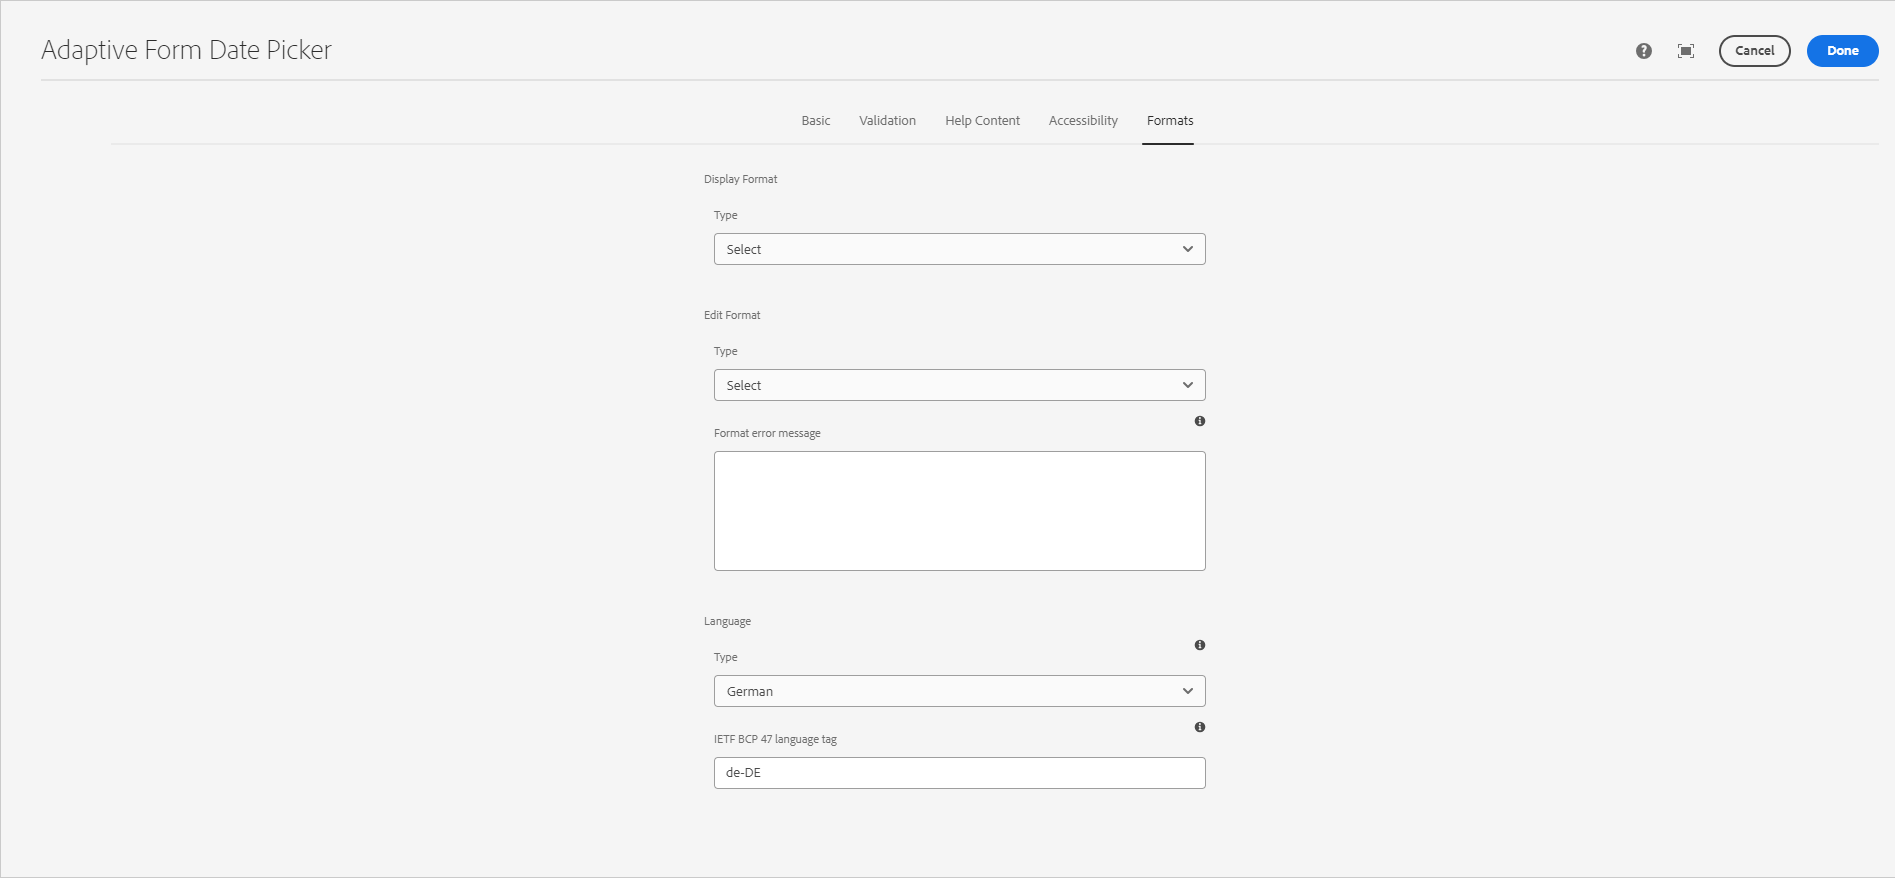
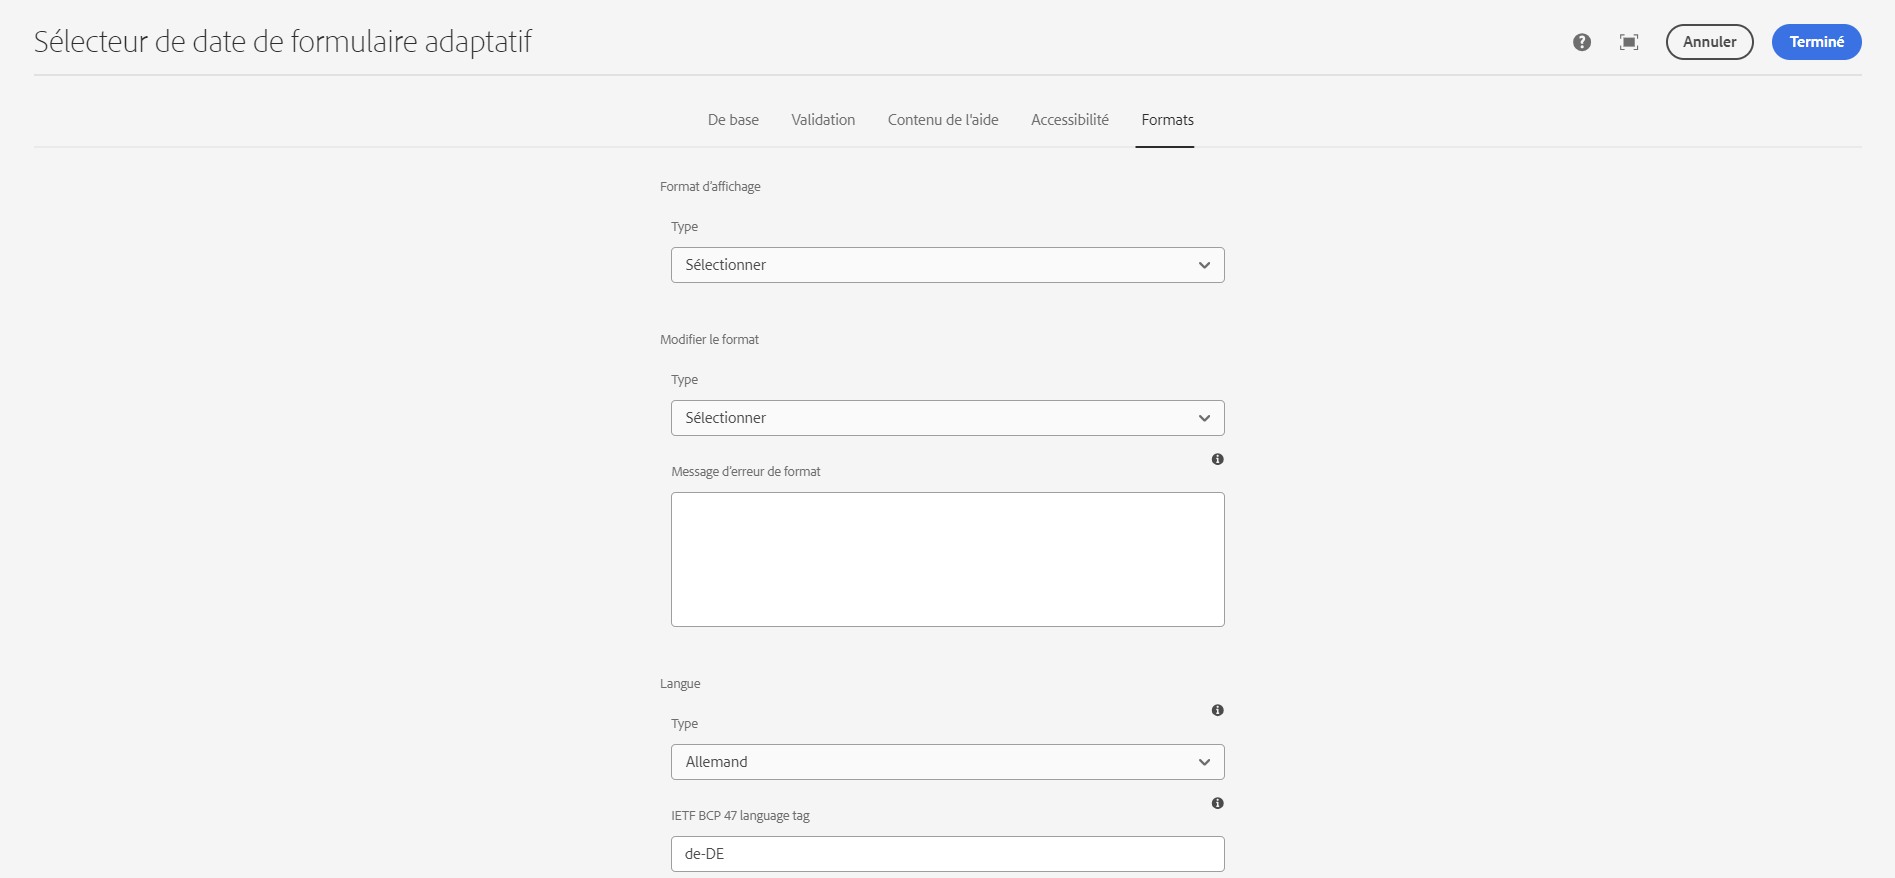
Updated by task 'AUTO_HANDOFF_1717677493608'  Changes for core/source commit https://git.corp.adobe.com/AdobeDocs/experience-manager-core-components.en/commit/b6ceef13539e7d2b3322df5a0b6369d114ae15b9

diff --git a/help/adaptive-forms/components/numeric-box.md b/help/adaptive-forms/components/numeric-box.md
@@ -4,15 +4,15 @@ description: Utilisation ou personnalisation du composant principal « Entrée 
 role: Architect, Developer, Admin, User
 exl-id: 75604ecf-1ec5-4e97-b934-d6ed49726147
 source-git-commit: b4a66a407e92398a98441c65ab588b9720777dfa
-workflow-type: tm+mt
+workflow-type: ht
 source-wordcount: '2283'
-ht-degree: 93%
+ht-degree: 100%
 
 ---
 
 # Composant Zone numérique{#number-input-adaptive-forms-core-component}
 
-Un composant de zone numérique dans un formulaire adaptatif est un type de champ de formulaire qui permet aux utilisateurs de saisir des valeurs numériques. Le composant est généralement représenté par un champ de texte avec une flèche vers le haut et vers le bas pour incrémenter et décrémenter le nombre.
+Dans un formulaire adaptatif, un composant Zone numérique est un type de champ de formulaire qui permet aux utilisateurs et utilisatrices de saisir des valeurs numériques. Le composant est généralement représenté par un champ de texte avec une flèche vers le haut et vers le bas pour incrémenter et décrémenter le nombre.
 
 Il peut également être utilisé avec des attributs tels que min, max, étape, valeur, etc. Ces attributs peuvent être utilisés pour définir les valeurs minimale et maximale autorisées dans le champ, l’intervalle d’étape pour incrémenter ou décrémenter le nombre et la valeur par défaut du champ.
 
@@ -127,20 +127,20 @@ Vous pouvez facilement personnaliser l’expérience d’entrée de nombre pour 
 ![Onglet Accessibilité](/help/adaptive-forms/assets/numberinput_formattab.png)
 
 - **Format d’affichage** : Cette option permet de sélectionner un format de type entier-numérique pour l’affichage. Lorsque l’utilisateur ou l’utilisatrice sélectionne une option dans le menu déroulant **Type**, l’option **Format** apparaît dans le panneau. Vous pouvez choisir un format spécifique dans lequel les nombres s’affichent pour l’utilisateur ou l’utilisatrice.
-- **Langue** - Cette fonctionnalité est utilisée pour mettre en forme le champ spécifique. Lorsqu’un utilisateur sélectionne une option de langue dans le **Type** , le menu déroulant **Balise de langue IETF BCP 47** s’affiche dans le panneau . Vous pouvez choisir la langue de formatage des champs lors de la traduction d’un formulaire adaptatif dans une langue spécifique.
+- **Langue** : cette fonctionnalité est utilisée pour mettre en forme le champ spécifique. Lorsqu’une personne sélectionne une option de langue dans le menu déroulant **Type**, l’option **Balise de langue IETF BCP 47** s’affiche dans le panneau. Vous pouvez choisir la langue de formatage des champs lors de la traduction d’un formulaire adaptatif dans une langue spécifique.
 
-L’ensemble de langues n’est pas visible par défaut, mais les utilisateurs peuvent saisir une **Balise de langue IETF BCP 47** en mettant à jour la stratégie de modèle :
+L’ensemble de langues n’est pas visible par défaut, mais les personnes peuvent saisir une **Balise de langue IETF BCP 47** en mettant à jour la politique des modèles :
 
 1. Ouvrez le modèle correspondant associé à un formulaire adaptatif dans l’éditeur de modèles.
-2. Sélectionnez la stratégie existante comme `numberinput-default-policy` dans le menu déroulant.
+2. Sélectionnez la politique existante `numberinput-default-policy` dans le menu déroulant.
 
-   ![Stratégie de modèle de sélecteur de date](/help/adaptive-forms/assets/numberinput-template-policy.png)
+   ![Politique des modèles de sélecteur de date](/help/adaptive-forms/assets/numberinput-template-policy.png)
 
 3. Cliquez sur **Terminé**.
 
    >[!NOTE]
    >
-   > Pour plus d’informations sur la façon de convertir un formulaire adaptatif en un paramètre régional spécifique, [cliquez ici](https://experienceleague.adobe.com/en/docs/experience-manager-cloud-service/content/forms/adaptive-forms-authoring/authoring-adaptive-forms-core-components/create-an-adaptive-form-on-forms-cs/supporting-new-language-localization-core-components).
+   > Pour plus d’informations sur la façon de convertir un formulaire adaptatif en un paramètre régional spécifique, [cliquez ici](https://experienceleague.adobe.com/fr/docs/experience-manager-cloud-service/content/forms/adaptive-forms-authoring/authoring-adaptive-forms-core-components/create-an-adaptive-form-on-forms-cs/supporting-new-language-localization-core-components).
 
 
 ## Boîte de dialogue de conception {#design-dialog}

diff --git a/help/adaptive-forms/components/date-picker.md b/help/adaptive-forms/components/date-picker.md
@@ -4,9 +4,9 @@ description: Utilisation ou personnalisation du composant principal Sélecteur d
 role: Architect, Developer, Admin, User
 exl-id: aa9402de-ca57-4c19-8d36-2dd0a78d6806
 source-git-commit: b4a66a407e92398a98441c65ab588b9720777dfa
-workflow-type: tm+mt
+workflow-type: ht
 source-wordcount: '2299'
-ht-degree: 93%
+ht-degree: 100%
 
 ---
 
@@ -131,21 +131,21 @@ Vous pouvez facilement personnaliser votre expérience de sélecteur de date pou
 - **Format d’affichage** : il s’agit du format de date affiché pour l’utilisateur ou l’utilisatrice. L’option **Type** permet à l’utilisateur ou à l’utilisatrice de sélectionner le format de date. Vous pouvez également personnaliser le format de date à l’aide de l’option **Personnaliser** dans le menu déroulant **Type**.
 
 - **Modifier le format** : il s’agit d’un format de date dans lequel l’utilisateur ou l’utilisatrice peut modifier la date. L’option **Type** permet à l’utilisateur ou à l’utilisatrice de sélectionner le format de date. Vous pouvez également personnaliser le format de date à l’aide de l’option **Personnaliser** dans le menu déroulant **Type**.
-- **Format du message d’erreur** - Cette option permet de saisir le message affiché à l&#39;écran lorsque la date saisie n&#39;est pas au format correct.
-- **Langue** - Cette fonctionnalité est utilisée pour mettre en forme le champ spécifique. Lorsqu’un utilisateur sélectionne une option de langue dans le **Type** , le menu déroulant **Balise de langue IETF BCP 47** s’affiche dans le panneau . Vous pouvez choisir la langue de formatage des champs lors de la traduction d’un formulaire adaptatif dans une langue spécifique.
+- **Message d’erreur de format** : cette option permet de saisir le message affiché à l’écran lorsque la date saisie n’est pas au format correct.
+- **Langue** : cette fonctionnalité est utilisée pour mettre en forme le champ spécifique. Lorsqu’une personne sélectionne une option de langue dans le menu déroulant **Type**, l’option **Balise de langue IETF BCP 47** s’affiche dans le panneau. Vous pouvez choisir la langue de formatage des champs lors de la traduction d’un formulaire adaptatif dans une langue spécifique.
 
-L’ensemble de langues n’est pas visible par défaut, mais les utilisateurs peuvent saisir une **Balise de langue IETF BCP 47** en mettant à jour la stratégie de modèle :
+L’ensemble de langues n’est pas visible par défaut, mais les personnes peuvent saisir une **Balise de langue IETF BCP 47** en mettant à jour la politique des modèles :
 
 1. Ouvrez le modèle correspondant associé à un formulaire adaptatif dans l’éditeur de modèles.
-2. Sélectionnez la stratégie existante comme `datepicker-default-policy` dans le menu déroulant.
+2. Sélectionnez la politique existante `datepicker-default-policy` dans le menu déroulant.
 
-   ![Stratégie de modèle de sélecteur de date](/help/adaptive-forms/assets/date-picker-template-policy.png)
+   ![Politique des modèles de sélecteur de date](/help/adaptive-forms/assets/date-picker-template-policy.png)
 
 3. Cliquez sur **Terminé**.
 
    >[!NOTE]
    >
-   > Pour plus d’informations sur la façon de convertir un formulaire adaptatif en un paramètre régional spécifique, [cliquez ici](https://experienceleague.adobe.com/en/docs/experience-manager-cloud-service/content/forms/adaptive-forms-authoring/authoring-adaptive-forms-core-components/create-an-adaptive-form-on-forms-cs/supporting-new-language-localization-core-components).
+   > Pour plus d’informations sur la façon de convertir un formulaire adaptatif en un paramètre régional spécifique, [cliquez ici](https://experienceleague.adobe.com/fr/docs/experience-manager-cloud-service/content/forms/adaptive-forms-authoring/authoring-adaptive-forms-core-components/create-an-adaptive-form-on-forms-cs/supporting-new-language-localization-core-components).
 
 ## Boîte de dialogue de conception {#design-dialog}
 

diff --git a/help/adaptive-forms/components/phone.md b/help/adaptive-forms/components/phone.md
@@ -4,16 +4,16 @@ description: Utilisation ou personnalisation du composant principal « Entrée 
 role: Architect, Developer, Admin, User
 exl-id: d06179ac-04bd-4af4-b6ac-c4c78086058c
 source-git-commit: b4a66a407e92398a98441c65ab588b9720777dfa
-workflow-type: tm+mt
+workflow-type: ht
 source-wordcount: '2197'
-ht-degree: 99%
+ht-degree: 100%
 
 ---
 
 
 # Composant Téléphone{#telephone-input-adaptive-forms-core-component}
 
-Le composant principal Téléphone du formulaire adaptatif permet aux utilisateurs de saisir un numéro de téléphone. Le champ « Entrée téléphonique » affiche les claviers sur les appareils mobiles qui correspondent aux numéros de téléphone. Il peut être personnalisé avec des attributs supplémentaires tels que « motif » et « espace réservé » pour spécifier le format et la description du numéro de téléphone.
+Le composant principal Téléphone des formulaires adaptatifs permet aux utilisateurs et utilisatrices de saisir un numéro de téléphone. Le champ « Entrée téléphonique » affiche les claviers sur les appareils mobiles qui correspondent aux numéros de téléphone. Il peut être personnalisé avec des attributs supplémentaires tels que « motif » et « espace réservé » pour spécifier le format et la description du numéro de téléphone.
 
 Le champ d’entrée téléphonique est généralement utilisé dans les formulaires de contact, les formulaires d’inscription et d’autres formulaires où un numéro de téléphone est requis comme moyen de cotnact. Le champ d’entrée téléphonique peut également être utilisé pour s’assurer que l’utilisateur ou l’utilisatrice saisit un numéro de téléphone valide, car le navigateur peut imposer certaines contraintes, telles que la longueur et le format du numéro de téléphone, en fonction de l’attribut « motif ».
 
